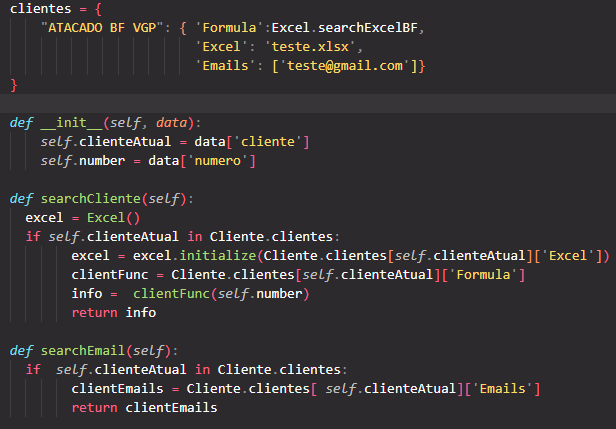
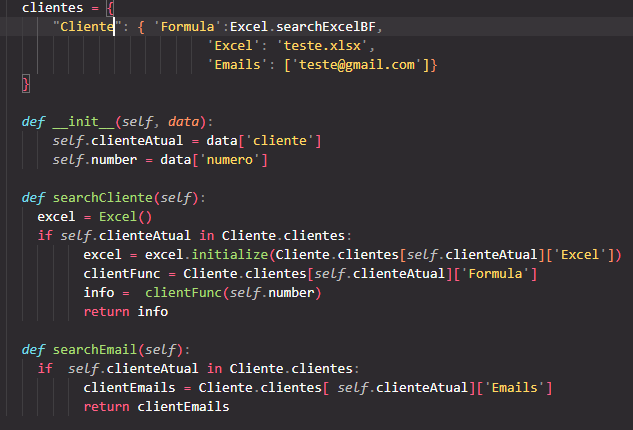
teste

diff --git a/clienteClass.py b/clienteClass.py
@@ -5,7 +5,7 @@ class Cliente:
     #deve ser passado então apenas o arquivo excel do cliente, e a classe deve ser instanciada para que a função passo implicitamente o parametro Self.
     #No segundo jeito o arquivo excel devera ser passado como parametro de todas as funções que mexem com o caminho dele, tanto a search como a insert
     clientes = {
-        "ATACADO BF VGP": { 'Formula':Excel.searchExcelBF, 
+        "Cliente": { 'Formula':Excel.searchExcelBF, 
                             'Excel': 'teste.xlsx',
                             'Emails': ['teste@gmail.com']}       
     }    

diff --git a/README.md b/README.md
@@ -13,7 +13,7 @@
 
 
 <h2>Requisitos</h2>
-<p>Para o funcionamento correto do robô, é necessário clonar o repositório nesse link aqui "https://github.com/GuilhermeNas2/Apollo-v.02.git",após isso devem ser criadas 3 pastas na raiz do projeto: Excel, XML, Concluídos (o nome pode variar, basta mudar ele no caminho). Também é necessário um arquivo .env contendo algumas variáveis específicas que você pode conferir abaixo.</p>
+<p>Para o funcionamento correto do robô, é necessário clonar o repositório nesse link aqui "https://github.com/GuilhermeNas2/Apollo-v.02.git" , após isso devem ser criadas 3 pastas na raiz do projeto: Excel, XML, Concluídos (o nome pode variar, basta mudar ele no caminho). Também é necessário um arquivo .env contendo algumas variáveis específicas que você pode conferir abaixo.</p>
 <span>
 user= "Usuário para logar no site" <br>
 password= "Senha do usuário" <br>
@@ -45,3 +45,5 @@ o formulário é preenchido no site, é necessário que esse código tenha "/" p
 <p>
     Já começo aqui pedindo desculpas por essa parte do código, como ainda não recebi aval para fazer uma banco de dados essa part preenche bem o vazio kkkk. Basicamente essa classe tem um dicionário contendo o nome do cliente, que deve ser o mesmo nome que esta no XML no meu caso, e alguns valores referentes a ele, o primeiro é uma função, pois como o objetivo desse script é satisfazer o processo de vários clientes, possivelmente algumas mudanças devem ser feitas entre eles, então é justificado que as funções possam ser dinâmicas durante todo o processo do robô. O segundo é o nome do excel que é usado para esse cliente. E por último temos uma lista com alguns emails referente a essa pessoa/empresa.
 </p>
+<h2>Uso<h2>
+<p></p>
